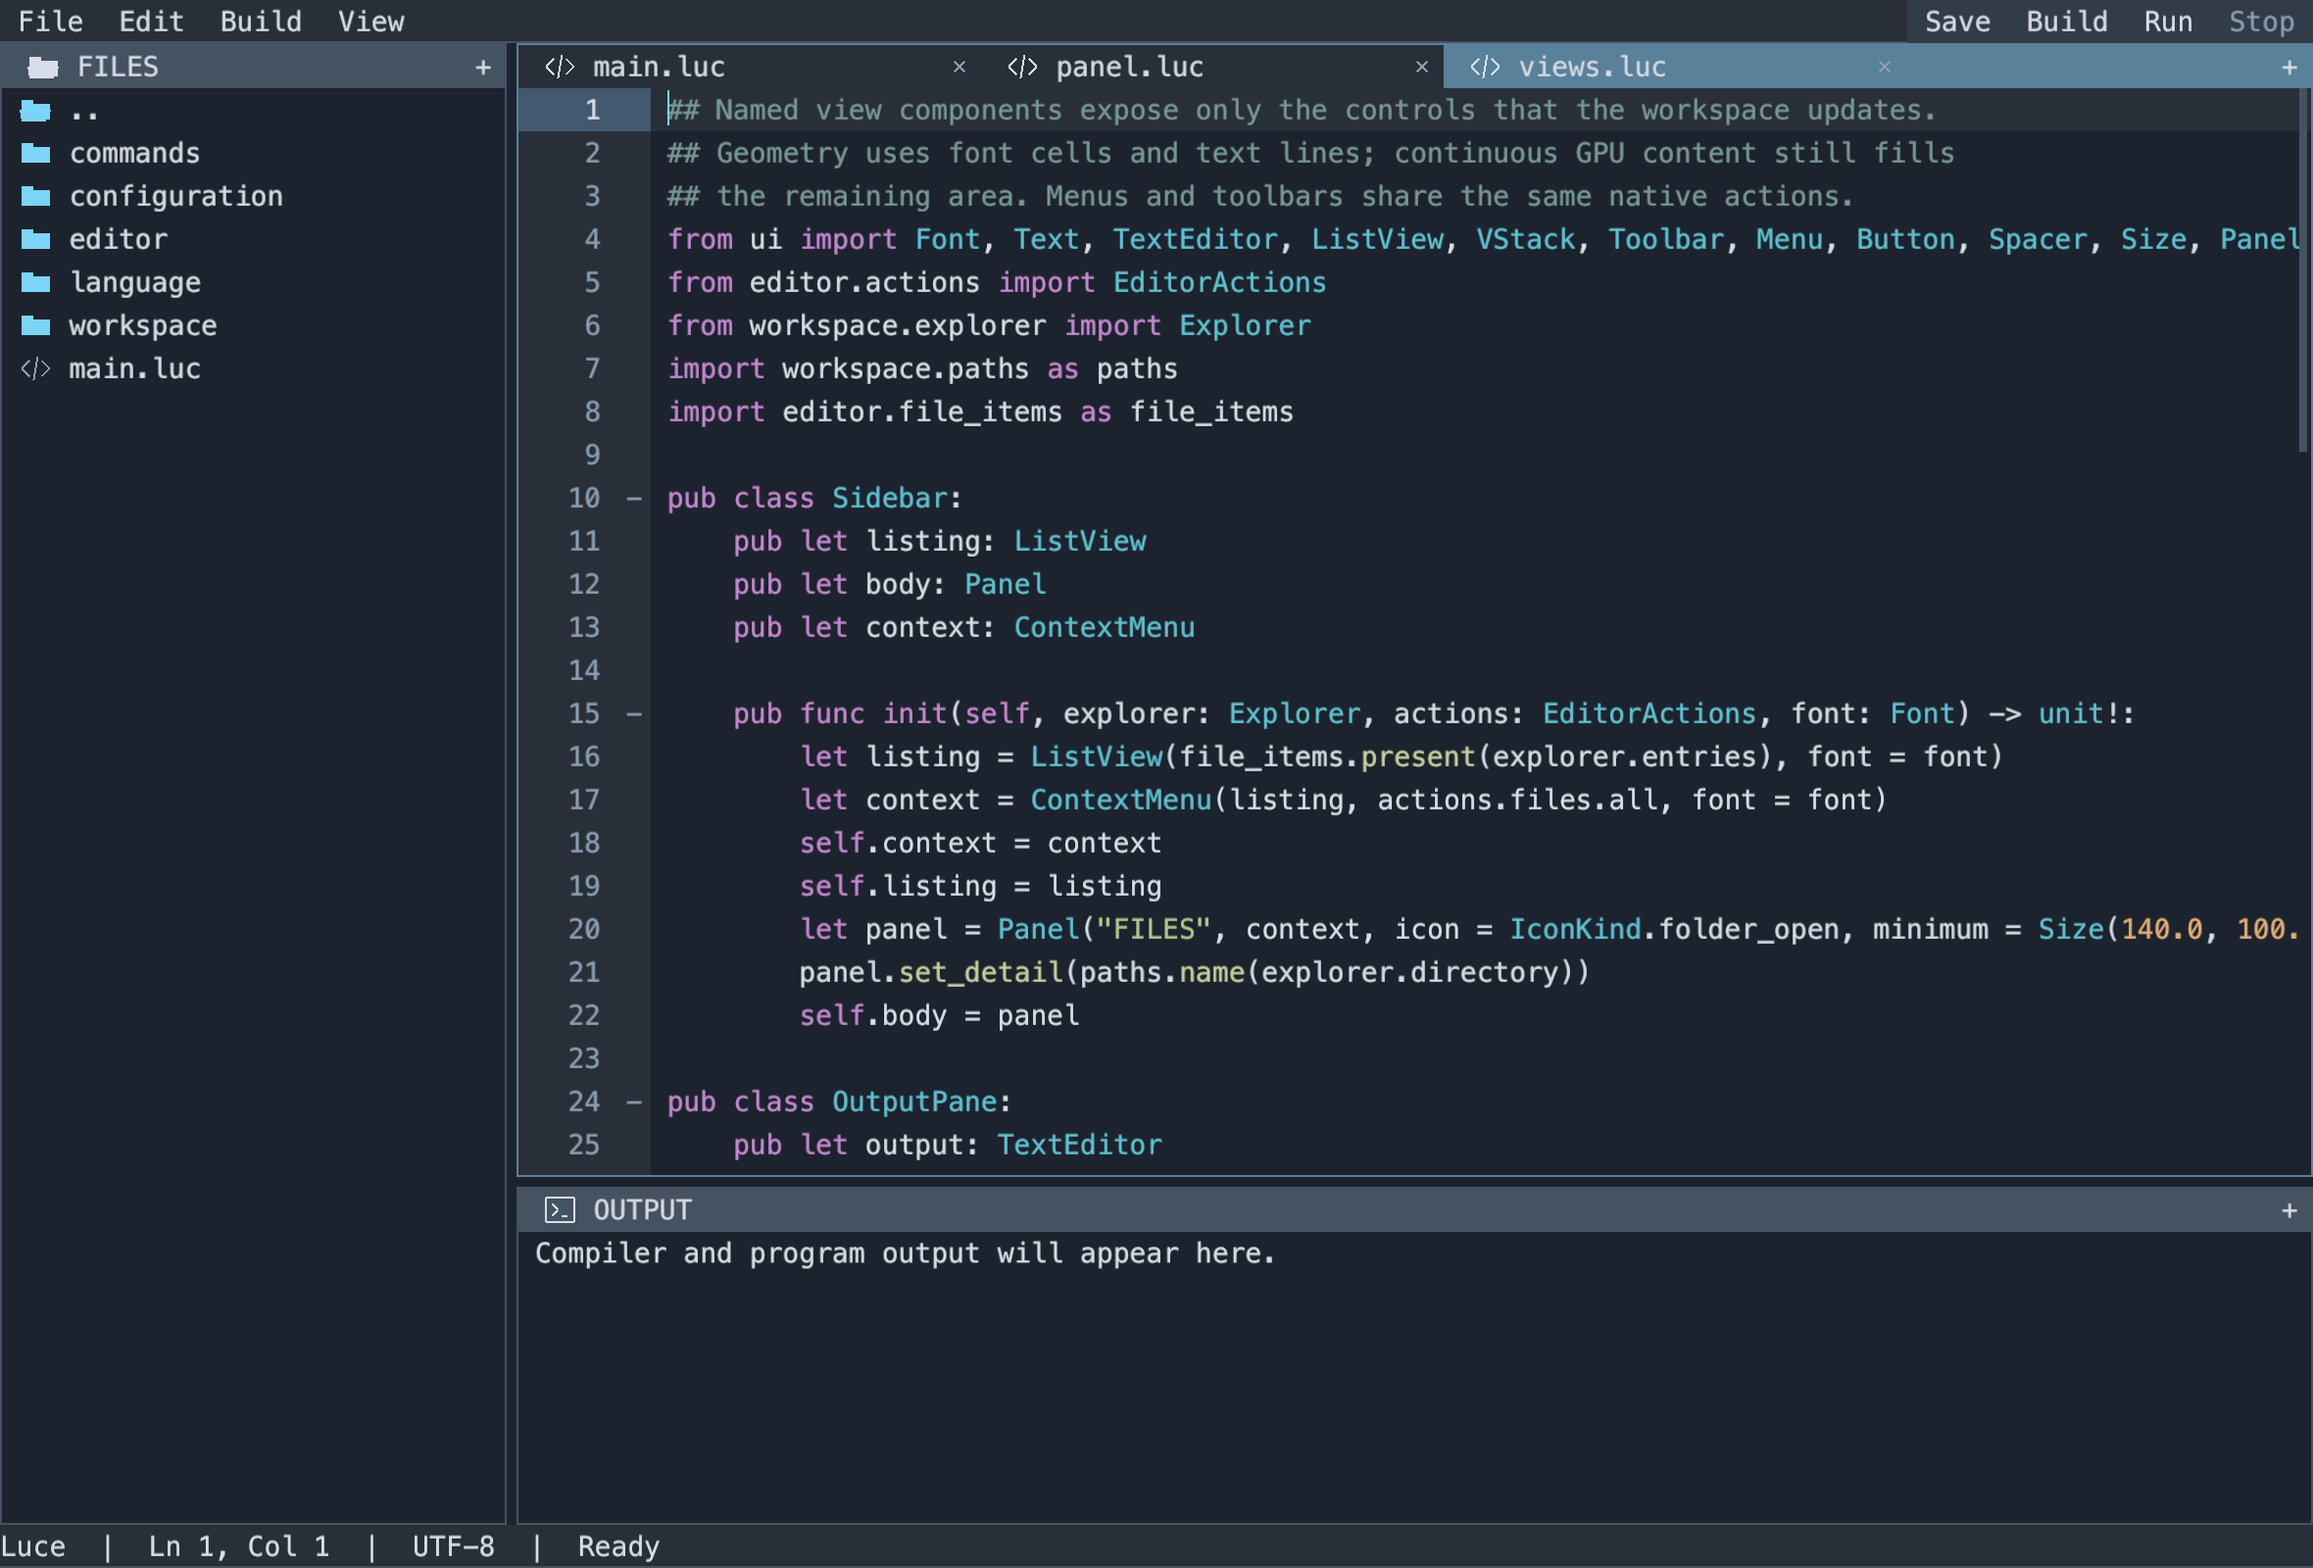
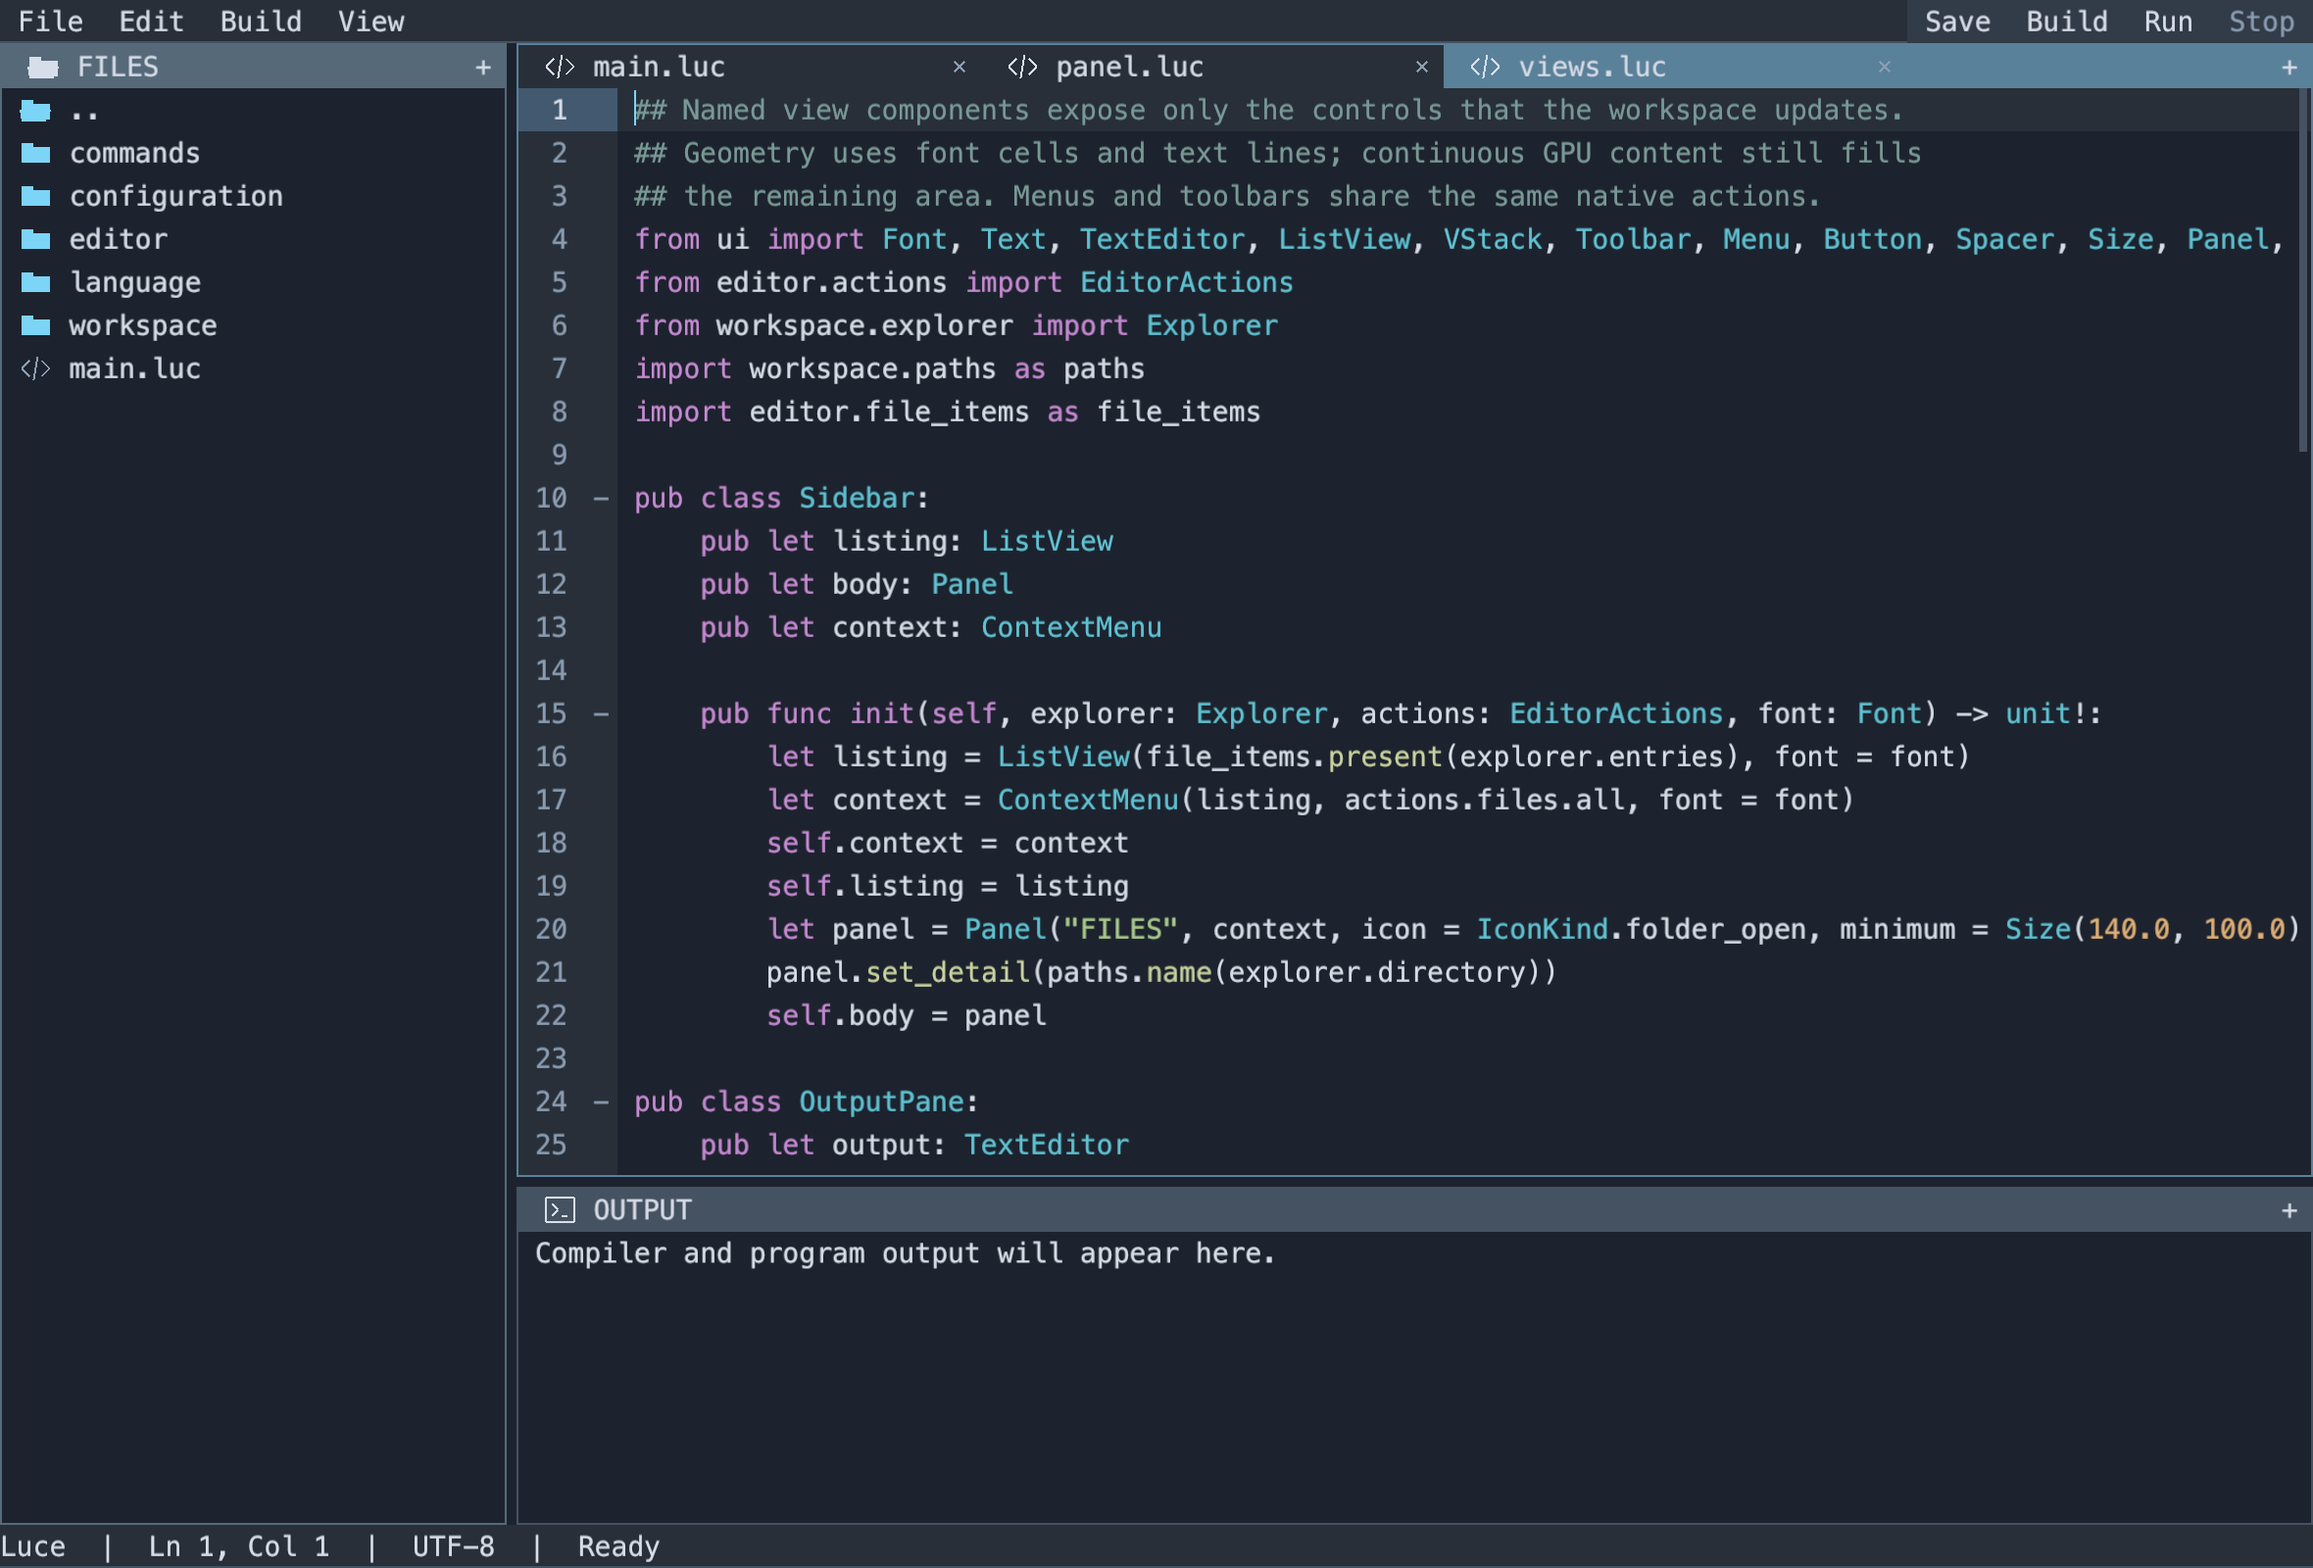
Adopt compact adaptive line-number gutters

diff --git a/README.md b/README.md
@@ -90,6 +90,9 @@ without opening it; right-clicking selected text preserves the selection.
 Pane dividers show two border edges at rest; their center grip appears on hover,
 dragging or keyboard focus. The gutter highlights the caret's row and gives a
 separate hover cue over line numbers and fold markers.
+The line-number gutter fits the document's largest number, with one character
+cell of padding on each side. It grows and shrinks as lines are added or removed;
+scrolling and folding keep its width stable.
 
 ## User settings and theme
 
